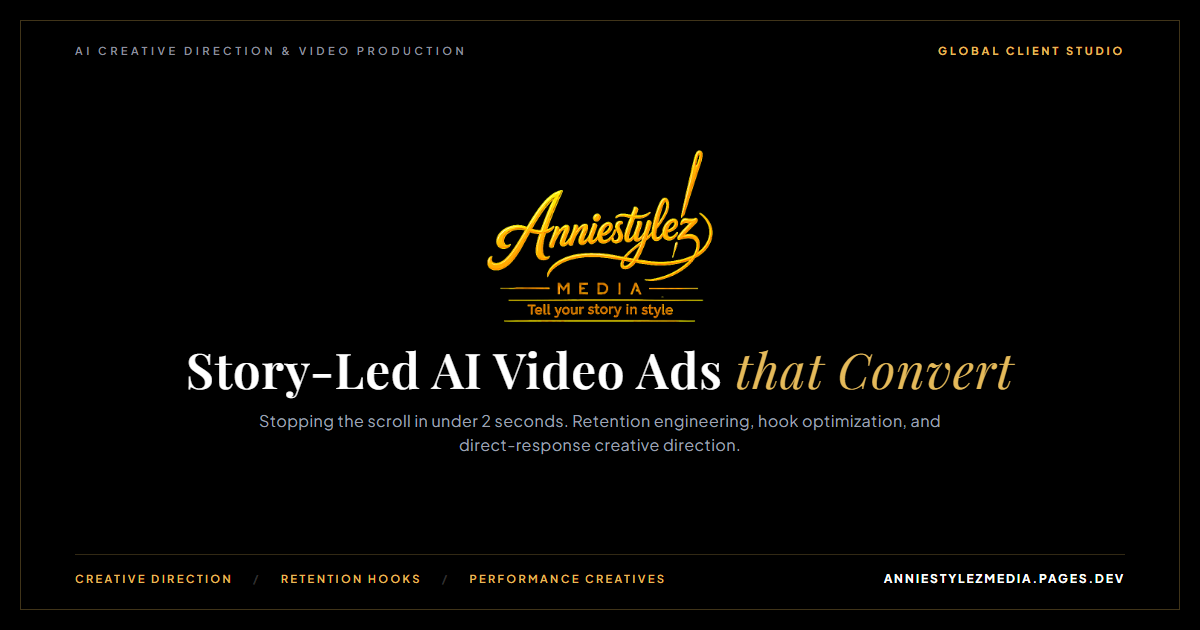
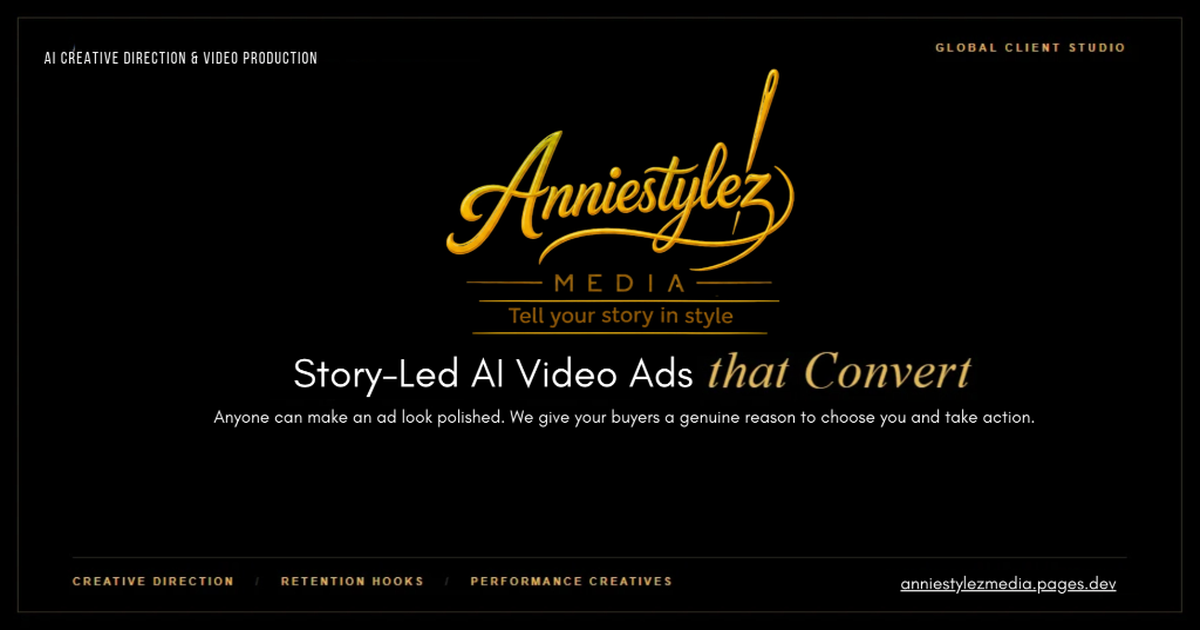
Deploy official user uploaded site cover and update social metadata

diff --git a/index.html b/index.html
@@ -4,20 +4,20 @@
 <meta charset="utf-8">
 <meta name="viewport" content="width=device-width,initial-scale=1">
 <title>Anniestylez Media: Story-Led AI Video Ads that Convert</title>
-<meta name="description" content="Direct-response AI video ads, retention hooks, and creative direction for high-growth brands.">
+<meta name="description" content="Anyone can make an ad look polished. We give your buyers a genuine reason to choose you and take action.">
 <meta property="og:type" content="website">
 <meta property="og:url" content="https://anniestylezmedia.pages.dev/">
 <meta property="og:title" content="Anniestylez Media: Story-Led AI Video Ads that Convert">
-<meta property="og:description" content="Direct-response AI video ads, retention hooks, and creative direction for high-growth brands.">
-<meta property="og:image" content="https://anniestylezmedia.pages.dev/og_preview.jpg?v=20261021b">
-<meta property="og:image:secure_url" content="https://anniestylezmedia.pages.dev/og_preview.jpg?v=20261021b">
+<meta property="og:description" content="Anyone can make an ad look polished. We give your buyers a genuine reason to choose you and take action.">
+<meta property="og:image" content="https://anniestylezmedia.pages.dev/og_preview.jpg?v=20261021c">
+<meta property="og:image:secure_url" content="https://anniestylezmedia.pages.dev/og_preview.jpg?v=20261021c">
 <meta property="og:image:type" content="image/jpeg">
 <meta property="og:image:width" content="1200">
 <meta property="og:image:height" content="630">
 <meta name="twitter:card" content="summary_large_image">
 <meta name="twitter:title" content="Anniestylez Media: Story-Led AI Video Ads that Convert">
-<meta name="twitter:description" content="Direct-response AI video ads, retention hooks, and creative direction for high-growth brands.">
-<meta name="twitter:image" content="https://anniestylezmedia.pages.dev/og_preview.jpg?v=20261021b">
+<meta name="twitter:description" content="Anyone can make an ad look polished. We give your buyers a genuine reason to choose you and take action.">
+<meta name="twitter:image" content="https://anniestylezmedia.pages.dev/og_preview.jpg?v=20261021c">
 <style>
 @import url('https://fonts.googleapis.com/css2?family=DM+Sans:ital,opsz,wght@0,9..40,300..800;1,9..40,300..800&family=Playfair+Display:ital,wght@0,500;0,600;0,700;1,400;1,600;1,700&family=Plus+Jakarta+Sans:wght@300;400;500;600;700;800&family=Sora:wght@400;600;700;800&family=JetBrains+Mono:wght@400;500;600&display=swap');
 
